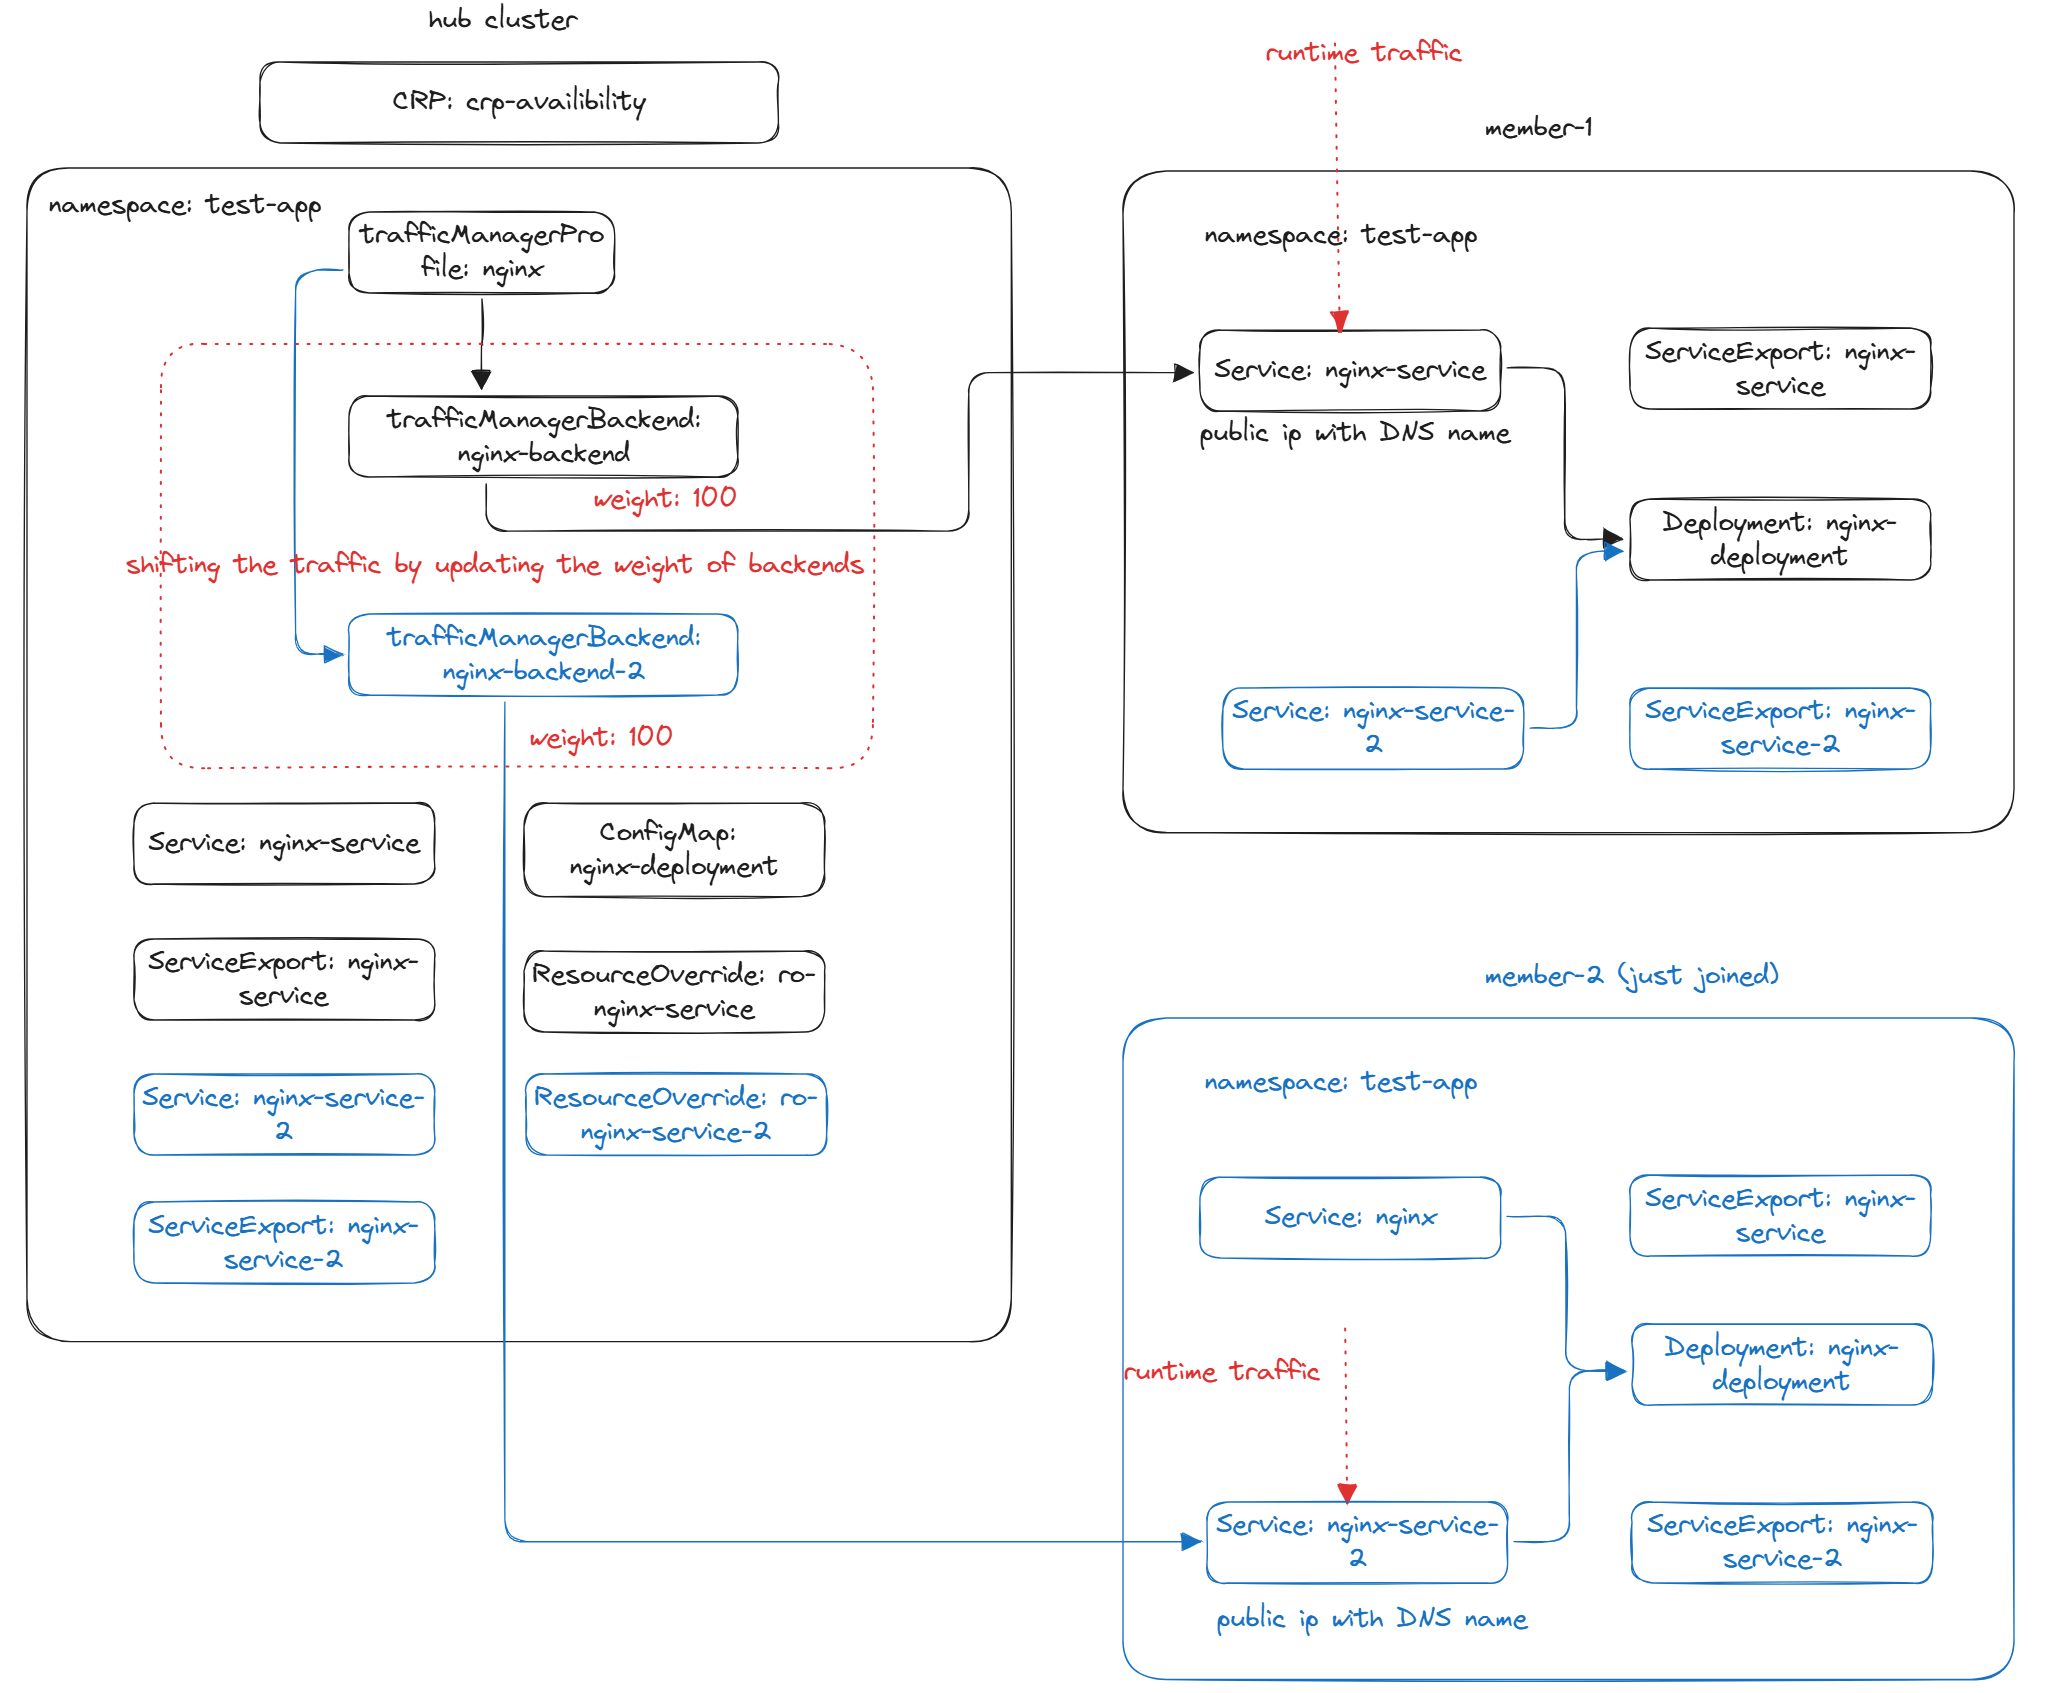
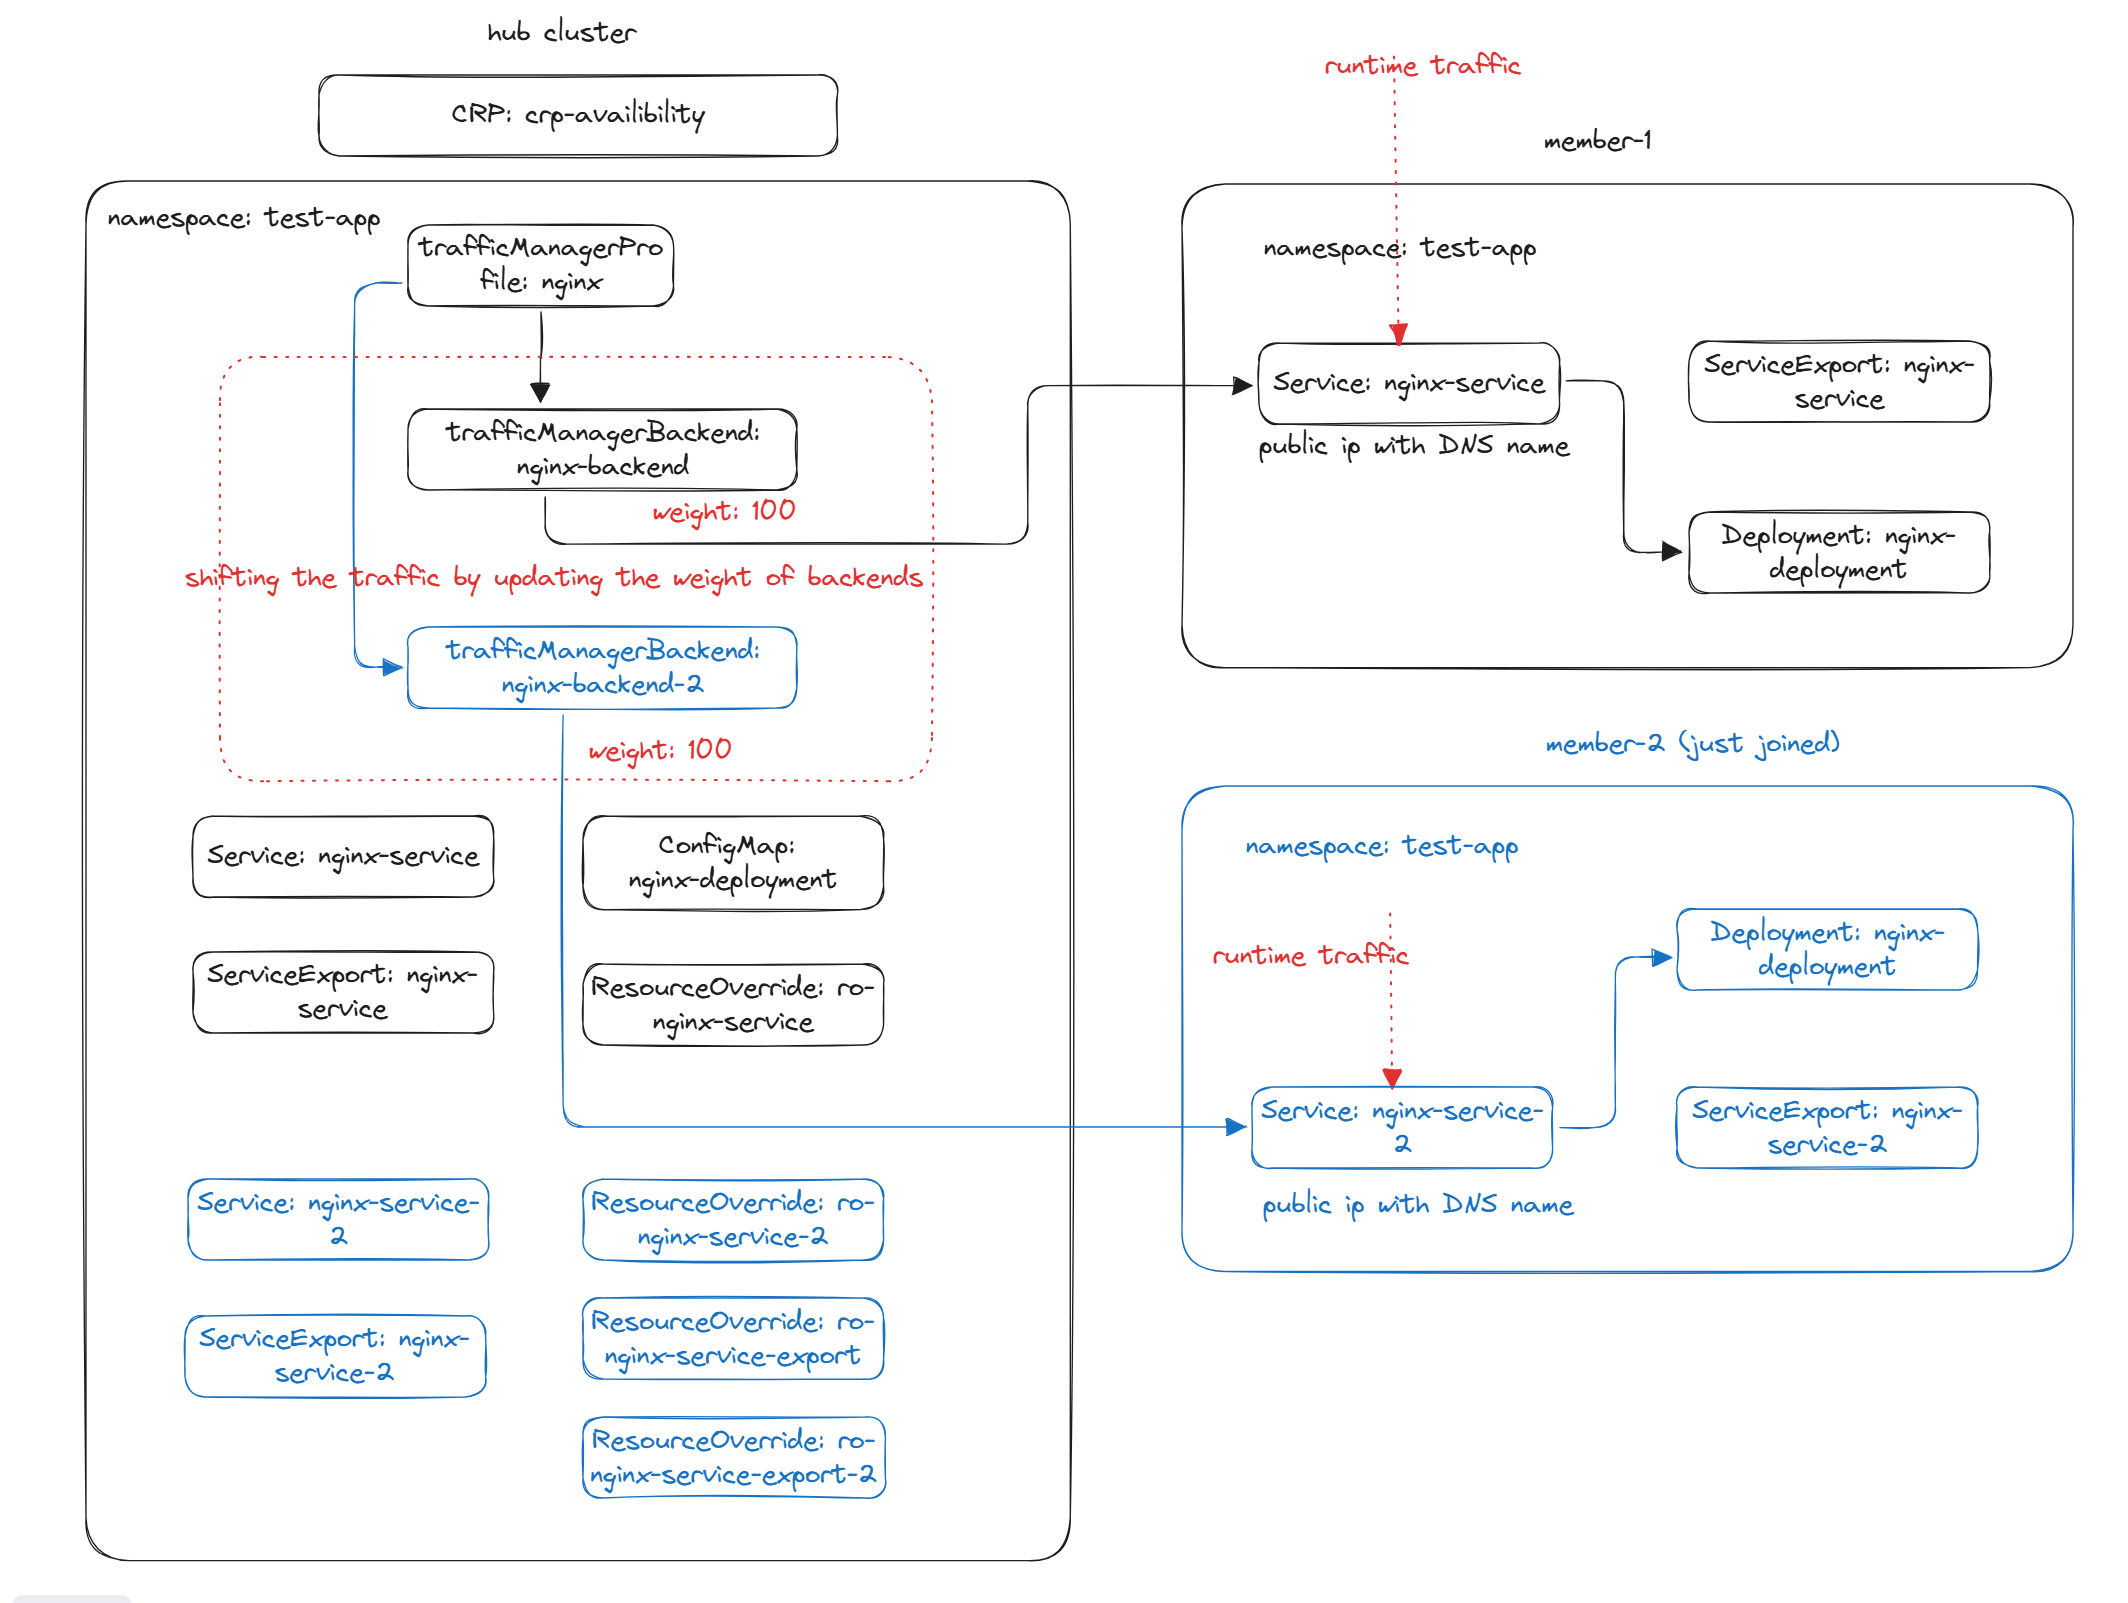
docs: update the applicationMigration doc using override delete feature

diff --git a/docs/tutorials/ApplicationMigration/ApplicationMigration.md b/docs/tutorials/ApplicationMigration/ApplicationMigration.md
@@ -202,6 +202,179 @@ NAME       JOINED   AGE   MEMBER-AGENT-LAST-SEEN   NODE-COUNT   AVAILABLE-CPU   
 member-2   True     16h   38s                      2            1848m           10318332Ki
 ```
 
+### Validate the Placement Status For Member Cluster 2
+
+Before migrating the resources, you need to validate the placement status on Member Cluster 2 to ensure that the resources are placed correctly and available.
+
+```bash
+kubectl get crp crp-availability -o yaml
+apiVersion: placement.kubernetes-fleet.io/v1
+kind: ClusterResourcePlacement
+metadata:
+  annotations:
+    kubectl.kubernetes.io/last-applied-configuration: |
+      {"apiVersion":"placement.kubernetes-fleet.io/v1","kind":"ClusterResourcePlacement","metadata":{"annotations":{},"name":"crp-availability"},"spec":{"policy":{"affinity":{"clusterAffinity":{"requiredDuringSchedulingIgnoredDuringExecution":{"clusterSelectorTerms":[{"labelSelector":{"matchLabels":{"cluster-name":"member-1"}}}]}}},"placementType":"PickAll"},"resourceSelectors":[{"group":"","kind":"Namespace","name":"test-app","version":"v1"}]}}
+  creationTimestamp: "2024-11-21T08:35:49Z"
+  finalizers:
+  - kubernetes-fleet.io/crp-cleanup
+  - kubernetes-fleet.io/scheduler-cleanup
+  generation: 3
+  name: crp-availability
+  resourceVersion: "11491938"
+  uid: df7dc703-6af0-401a-b41b-17e76f8383af
+spec:
+  policy:
+    placementType: PickAll
+  resourceSelectors:
+  - group: ""
+    kind: Namespace
+    name: test-app
+    version: v1
+  revisionHistoryLimit: 10
+  strategy:
+    type: RollingUpdate
+status:
+  conditions:
+  - lastTransitionTime: "2024-12-06T08:55:45Z"
+    message: found all cluster needed as specified by the scheduling policy, found
+      2 cluster(s)
+    observedGeneration: 3
+    reason: SchedulingPolicyFulfilled
+    status: "True"
+    type: ClusterResourcePlacementScheduled
+  - lastTransitionTime: "2024-12-06T08:55:46Z"
+    message: All 2 cluster(s) start rolling out the latest resource
+    observedGeneration: 3
+    reason: RolloutStarted
+    status: "True"
+    type: ClusterResourcePlacementRolloutStarted
+  - lastTransitionTime: "2024-12-06T08:55:46Z"
+    message: The selected resources are successfully overridden in 2 cluster(s)
+    observedGeneration: 3
+    reason: OverriddenSucceeded
+    status: "True"
+    type: ClusterResourcePlacementOverridden
+  - lastTransitionTime: "2024-12-06T08:55:46Z"
+    message: Works(s) are succcesfully created or updated in 2 target cluster(s)'
+      namespaces
+    observedGeneration: 3
+    reason: WorkSynchronized
+    status: "True"
+    type: ClusterResourcePlacementWorkSynchronized
+  - lastTransitionTime: "2024-12-06T08:55:46Z"
+    message: The selected resources are successfully applied to 2 cluster(s)
+    observedGeneration: 3
+    reason: ApplySucceeded
+    status: "True"
+    type: ClusterResourcePlacementApplied
+  - lastTransitionTime: "2024-12-06T08:56:01Z"
+    message: The selected resources in 2 cluster(s) are available now
+    observedGeneration: 3
+    reason: ResourceAvailable
+    status: "True"
+    type: ClusterResourcePlacementAvailable
+  observedResourceIndex: "11"
+  placementStatuses:
+  - clusterName: member-2
+    conditions:
+    - lastTransitionTime: "2024-12-06T08:55:45Z"
+      message: 'Successfully scheduled resources for placement in "member-2" (affinity
+        score: 0, topology spread score: 0): picked by scheduling policy'
+      observedGeneration: 3
+      reason: Scheduled
+      status: "True"
+      type: Scheduled
+    - lastTransitionTime: "2024-12-06T08:55:46Z"
+      message: Detected the new changes on the resources and started the rollout process
+      observedGeneration: 3
+      reason: RolloutStarted
+      status: "True"
+      type: RolloutStarted
+    - lastTransitionTime: "2024-12-06T08:55:46Z"
+      message: No override rules are configured for the selected resources
+      observedGeneration: 3
+      reason: NoOverrideSpecified
+      status: "True"
+      type: Overridden
+    - lastTransitionTime: "2024-12-06T08:55:46Z"
+      message: All of the works are synchronized to the latest
+      observedGeneration: 3
+      reason: AllWorkSynced
+      status: "True"
+      type: WorkSynchronized
+    - lastTransitionTime: "2024-12-06T08:55:46Z"
+      message: All corresponding work objects are applied
+      observedGeneration: 3
+      reason: AllWorkHaveBeenApplied
+      status: "True"
+      type: Applied
+    - lastTransitionTime: "2024-12-06T08:56:01Z"
+      message: All corresponding work objects are available
+      observedGeneration: 3
+      reason: AllWorkAreAvailable
+      status: "True"
+      type: Available
+  - applicableResourceOverrides:
+    - name: ro-nginx-service-9
+      namespace: test-app
+    clusterName: member-1
+    conditions:
+    - lastTransitionTime: "2024-12-06T08:55:45Z"
+      message: 'Successfully scheduled resources for placement in "member-1" (affinity
+        score: 0, topology spread score: 0): picked by scheduling policy'
+      observedGeneration: 3
+      reason: Scheduled
+      status: "True"
+      type: Scheduled
+    - lastTransitionTime: "2024-12-06T08:55:46Z"
+      message: Detected the new changes on the resources and started the rollout process
+      observedGeneration: 3
+      reason: RolloutStarted
+      status: "True"
+      type: RolloutStarted
+    - lastTransitionTime: "2024-12-06T08:55:46Z"
+      message: Successfully applied the override rules on the resources
+      observedGeneration: 3
+      reason: OverriddenSucceeded
+      status: "True"
+      type: Overridden
+    - lastTransitionTime: "2024-12-06T08:55:46Z"
+      message: All of the works are synchronized to the latest
+      observedGeneration: 3
+      reason: AllWorkSynced
+      status: "True"
+      type: WorkSynchronized
+    - lastTransitionTime: "2024-12-06T08:55:46Z"
+      message: All corresponding work objects are applied
+      observedGeneration: 3
+      reason: AllWorkHaveBeenApplied
+      status: "True"
+      type: Applied
+    - lastTransitionTime: "2024-12-06T08:55:46Z"
+      message: All corresponding work objects are available
+      observedGeneration: 3
+      reason: AllWorkAreAvailable
+      status: "True"
+      type: Available
+  selectedResources:
+  - kind: Namespace
+    name: test-app
+    version: v1
+  - group: networking.fleet.azure.com
+    kind: ServiceExport
+    name: nginx-service
+    namespace: test-app
+    version: v1alpha1
+  - kind: Service
+    name: nginx-service
+    namespace: test-app
+    version: v1
+  - kind: ConfigMap
+    name: envelope-configmap
+    namespace: test-app
+    version: v1
+```
+
 ### Validate the TrafficManagerBackend nginx-backend
 
 Before migrating the resources, you need to validate the TrafficManagerBackend resource `nginx-backend` to ensure that the traffic is being routed to the correct cluster.
@@ -251,9 +424,108 @@ Summary:
 to the member-2.
 - The traffic is currently being routed to the nginx-service in Member Cluster 1 only.
 
-### Exposing The deployment In Member Cluster 2 Using Different Service Name
+### Exposing The deployment In Member Cluster 2 Using A Different Service Name
 
-The nginx deployment in Member Cluster 2 will be exposed using a different service name `nginx-service-2` with a different DNS name. All the traffic will be routed via the new Service `nginx-service-2` in Member Cluster 2 instead of `nginx-service`.
+You will stop serving the traffic via the existing service `nginx-service` in Member Cluster 2  and the nginx deployment in Member Cluster 2 will
+be exposed using a different service name `nginx-service-2` with a different DNS name. All the traffic will be routed via the new Service `nginx-service-2` in Member Cluster 2 instead of `nginx-service`.
+
+#### Stop Exposing nginx-service In Member Cluster 2
+
+Before creating the new service in Member Cluster 2, you need to stop exposing the existing service `nginx-service` in Member Cluster 2 by deleting the ServiceExport resource via creating override.
+> Note:  override file located [here,](./testfiles/ro-nginx-service-export.yaml).
+```yaml
+apiVersion: placement.kubernetes-fleet.io/v1alpha1
+kind: ResourceOverride
+metadata:
+  name: ro-nginx-service
+  namespace: test-app
+spec:
+  resourceSelectors:
+    -  group: networking.fleet.azure.com
+       kind: ServiceExport
+       version: v1alpha1
+       name: nginx-service
+  policy:
+    overrideRules:
+      - clusterSelector:
+          clusterSelectorTerms:
+            - labelSelector:
+                matchLabels:
+                  cluster-name: member-2
+        overrideType: Delete
+
+```
+Summary:
+- The override makes sure serviceExport `nginx-service` won't be applied to the Member Cluster 2.
+
+#### Stop Exposing Deployment via nginx-service Member Cluster 2
+
+To stop exposing the deployment, you need to update ro-nginx-service Override.
+
+> Note:  override file located [here,](./testfiles/ro-nginx-service.yaml).
+
+```yaml
+apiVersion: placement.kubernetes-fleet.io/v1alpha1
+kind: ResourceOverride
+metadata:
+  name: ro-nginx-service
+  namespace: test-app
+spec:
+  resourceSelectors:
+    -  group: ""
+       kind: Service
+       version: v1
+       name: nginx-service
+  policy:
+    overrideRules:
+      - clusterSelector:
+          clusterSelectorTerms:
+            - labelSelector:
+                matchLabels:
+                  cluster-name: member-1
+        jsonPatchOverrides:
+          - op: add
+            path: /metadata/annotations
+            value:
+              {"service.beta.kubernetes.io/azure-dns-label-name":"fleet-test-member-1"}
+      - clusterSelector:
+          clusterSelectorTerms:
+            - labelSelector:
+                matchLabels:
+                  cluster-name: member-2
+        overrideType: Delete
+```
+
+Summary:
+- The override makes sure the nginx-service won't be applied to the Member Cluster 2 cluster.
+
+#### Create ro-nginx-service-export-2 Override
+
+> Note:  override file located [here,](./testfiles/ro-nginx-service-export-2.yaml) and it should be created before the new service.
+> So that the overrides can be applied to these resources.
+
+To ensure the new service is exposed in Member Cluster 2 only, you need to create an override to delete the serviceExport in Member Cluster 1 when propagating.
+```yaml
+apiVersion: placement.kubernetes-fleet.io/v1alpha1
+kind: ResourceOverride
+metadata:
+  name: ro-nginx-service
+  namespace: test-app
+spec:
+  resourceSelectors:
+    -  group: networking.fleet.azure.com
+       kind: ServiceExport
+       version: v1alpha1
+       name: nginx-service-2
+  policy:
+    overrideRules:
+      - clusterSelector:
+          clusterSelectorTerms:
+            - labelSelector:
+                matchLabels:
+                  cluster-name: member-1
+        overrideType: Delete
+```
 
 #### Create ro-nginx-service-2 Override
 > Note:  override file located [here,](./testfiles/ro-nginx-service-2.yaml) and it should be created before the new service.
@@ -277,6 +549,12 @@ spec:
           clusterSelectorTerms:
             - labelSelector:
                 matchLabels:
+                  cluster-name: member-1
+        overrideType: Delete
+      - clusterSelector:
+          clusterSelectorTerms:
+            - labelSelector:
+                matchLabels:
                   cluster-name: member-2
         jsonPatchOverrides:
           - op: add
@@ -285,6 +563,7 @@ spec:
               {"service.beta.kubernetes.io/azure-dns-label-name":"fleet-test-member-2"}
 ```
 Summary:
+- It deletes the service so that the service won't be applied to the Member Cluster 1.
 - It adds a DNS label for Member Cluster 2 so that the service can be added as Traffic Manager Endpoint.
 
 #### New Service for Member Cluster 2
@@ -393,15 +672,18 @@ After the new service is up and running in Member Cluster 2, you can stop servin
 kubectl delete trafficmanagerbackend nginx-backend -n test-app
 ```
 
-Make sure all the client DNS cache is reset before you mark the Member Cluster 1 as left, so that all the placed resources will be deleted from the cluster.
+You can delete Member Cluster 1 and all the placed resources (excluding fleet networking resources, for example, serviceExport) will be left on the Member Cluster 1.
+Make sure all the client DNS cache is reset before you destroy the service and deployment on the member cluster.
 
 ```bash
 kubectl delete membercluster member-1
 ```
 
-Lastly, clean up the old service and service export resources in member-2 by deleting them in the hub cluster, so that CRP will roll out these changes to the member-2.
+Lastly, clean up the old service, service export and their overrides which are not used anymore in member-2 by deleting them in the hub cluster.
 
 ```bash
+kubectl delete resourceoverrides ro-nginx-service-export -n test-app
+kubectl delete resourceoverrides ro-nginx-service -n test-app
 kubectl delete serviceexport nginx-service -n test-app
 kubectl delete service nginx-service -n test-app
 ```
